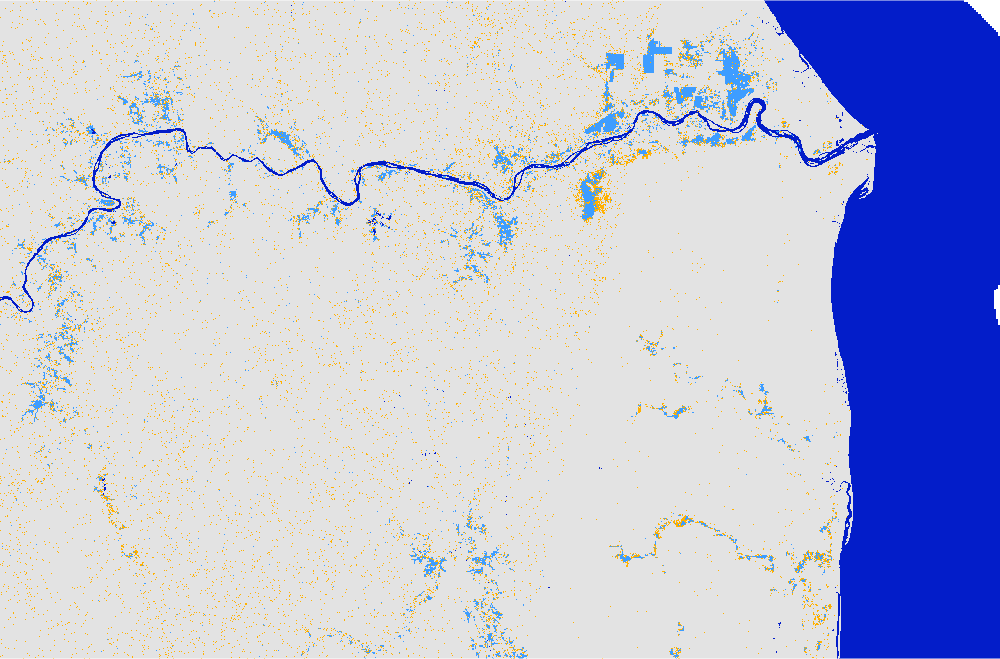
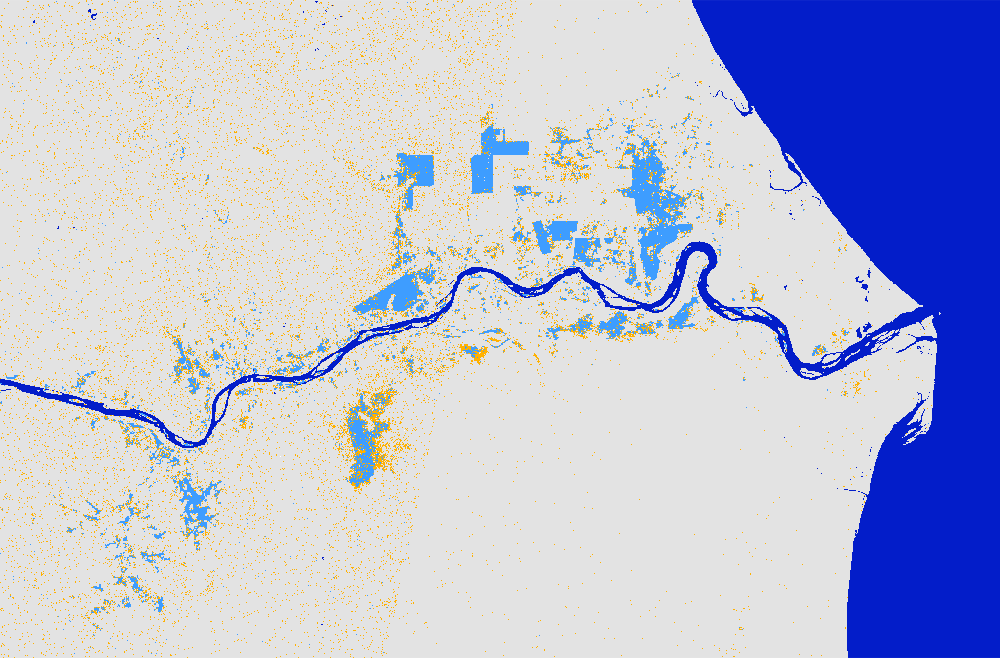
Malaysia 2021 map updated

diff --git a/examples/2021/README.md b/examples/2021/README.md
@@ -2,9 +2,9 @@
 
 ## 2021 Pahang, Malaysia<br/>
 Country: Malaysia<br/>
-State: Pahang - one can zoom a bit near the coast along the Pahang river to map the flood extent as shown in image below.<br/>
+State: Pahang - one can zoom a bit near the coast along the Pahang river and check the "Current map extent" checkbox to map the flood extent as shown in image below.<br/>
 Pre flood date: 01 Nov 2020 + 60 days<br/>
-During flood date: 13 Jan 2021 + 7 days<br/>
+During flood date: 13 Jan 2021 + 1 days<br/>
 <img src="../../media/expl/2021_Malaysia.png" height="455" width="700"><br/>
 <img src="../../media/legend.png" height="55" width="730"><br/>
 
